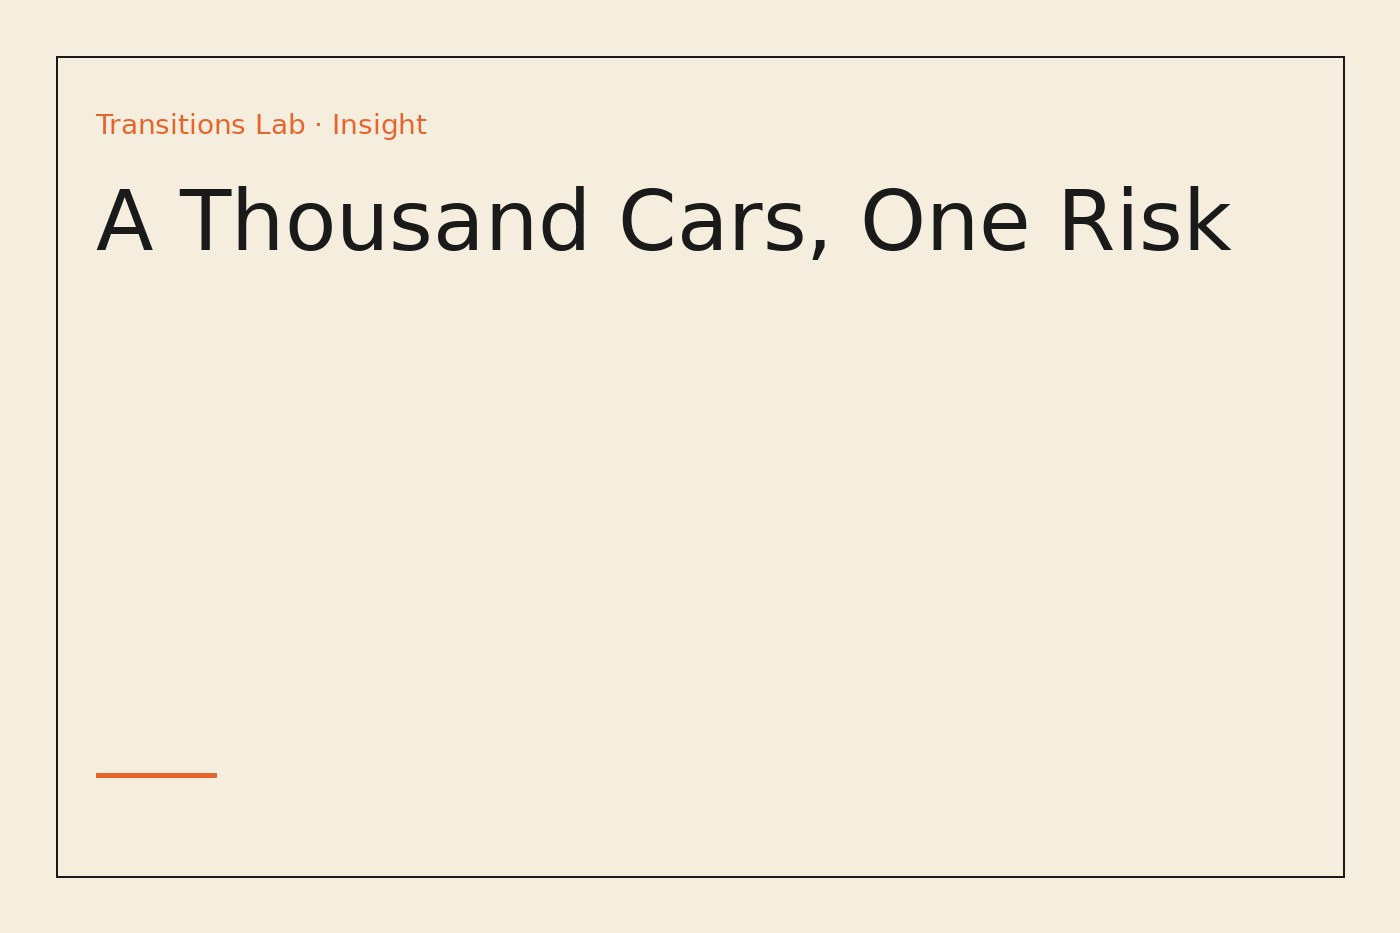
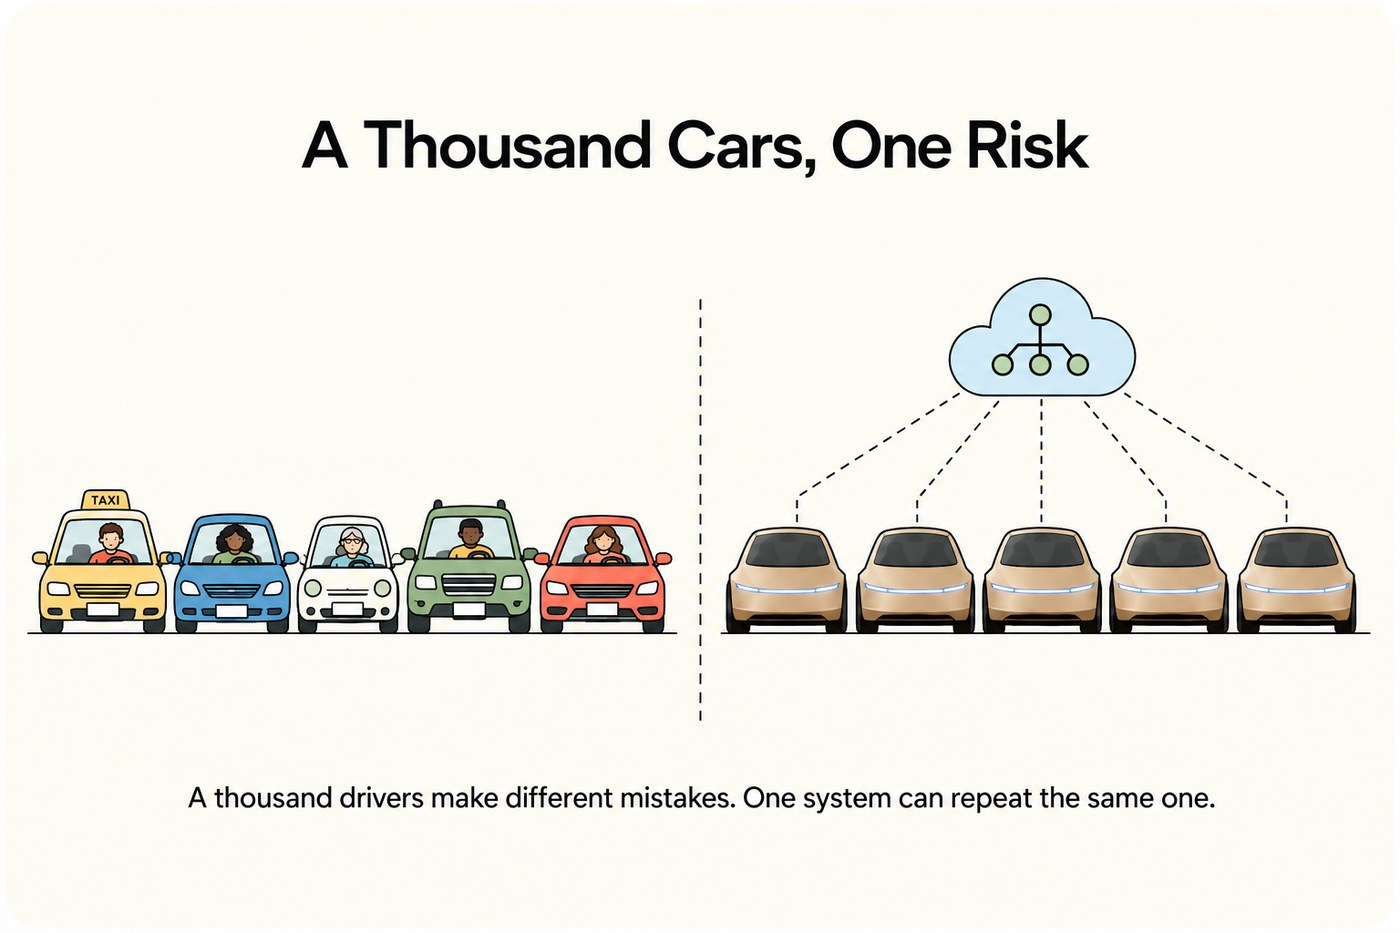
Illustrated title card for A Thousand Cars, One Risk
Swaps the placeholder butter hero for the Register A title-card
illustration (a thousand drivers on the left, one system in the cloud
connected by dashed lines to identical driverless vehicles on the
right). Same filename as the placeholder, so the article page, the
home Latest Insights card, the /articles thumbnail and the OG card
all pick up the new hero on the next cache-bust hash.

Claude-Session: https://claude.ai/code/session_01UTkcwmfvBCDVuALj2XrD2r

diff --git a/articles.html b/articles.html
@@ -147,7 +147,7 @@
   <p class="filter-empty" hidden>No articles match that combination. <button type="button" class="filter-reset">Reset filters</button></p>
 </div>
 <div class="article-list"><div class="article-item has-thumb" data-category="e-mobility" data-geography="global" data-month="2026-09">
-    <a class="article-thumb-link" href="/insight-a-thousand-cars-one-risk"><img class="article-thumb" src="/assets/img/insight-a-thousand-cars-one-risk-hero.jpg?v=3410e680" alt="Line-art comparison: on the left a row of taxis each with a distinct small driver figure at the wheel; on the right an identical row of driverless two-seater vehicles connected upward by dashed lines to a single cloud-shaped software icon."></a>
+    <a class="article-thumb-link" href="/insight-a-thousand-cars-one-risk"><img class="article-thumb" src="/assets/img/insight-a-thousand-cars-one-risk-hero.jpg?v=5b411b0d" alt="Line-art comparison: on the left a row of taxis each with a distinct small driver figure at the wheel; on the right an identical row of driverless two-seater vehicles connected upward by dashed lines to a single cloud-shaped software icon."></a>
     <div class="article-body">
       <a class="article-title" href="/insight-a-thousand-cars-one-risk">A Thousand Cars, One Risk</a>
       <div class="article-meta">6 September 2026</div>

diff --git a/insight-a-thousand-cars-one-risk.html b/insight-a-thousand-cars-one-risk.html
@@ -106,7 +106,7 @@
       
       <p class="article-meta"><span class="article-date">6 September 2026</span> · <span class="article-reading-time">11 min read</span></p>
 <figure>
-<img src="/assets/img/insight-a-thousand-cars-one-risk-hero.jpg?v=3410e680" alt="Line-art comparison: on the left a row of taxis each with a distinct small driver figure at the wheel, drawn with slight variations; on the right an identical row of driverless two-seater vehicles, all exactly the same, connected upward by thin dashed lines to a single cloud-shaped software icon above them." class="diagram">
+<img src="/assets/img/insight-a-thousand-cars-one-risk-hero.jpg?v=5b411b0d" alt="Line-art comparison: on the left a row of taxis each with a distinct small driver figure at the wheel, drawn with slight variations; on the right an identical row of driverless two-seater vehicles, all exactly the same, connected upward by thin dashed lines to a single cloud-shaped software icon above them." class="diagram">
 <figcaption>On the left, a thousand drivers who make different mistakes. On the right, one system that makes the same one.</figcaption>
 </figure>
 <h2>What actually changes when the driver comes out of the taxi</h2>

diff --git a/index.html b/index.html
@@ -232,7 +232,7 @@
     <div class="insight-row">
       <a class="insight-card has-photo" href="/insight-a-thousand-cars-one-risk">
         <div class="card-photo">
-          <img src="/assets/img/insight-a-thousand-cars-one-risk-hero.jpg?v=3410e680" alt="Line-art comparison: on the left a row of taxis each with a distinct small driver figure at the wheel; on the right an identical row of driverless two-seater vehicles connected upward by dashed lines to a single cloud-shaped software icon.">
+          <img src="/assets/img/insight-a-thousand-cars-one-risk-hero.jpg?v=5b411b0d" alt="Line-art comparison: on the left a row of taxis each with a distinct small driver figure at the wheel; on the right an identical row of driverless two-seater vehicles connected upward by dashed lines to a single cloud-shaped software icon.">
           <span class="kicker">Insight &middot; E-Mobility</span>
         </div>
         <div class="body">
